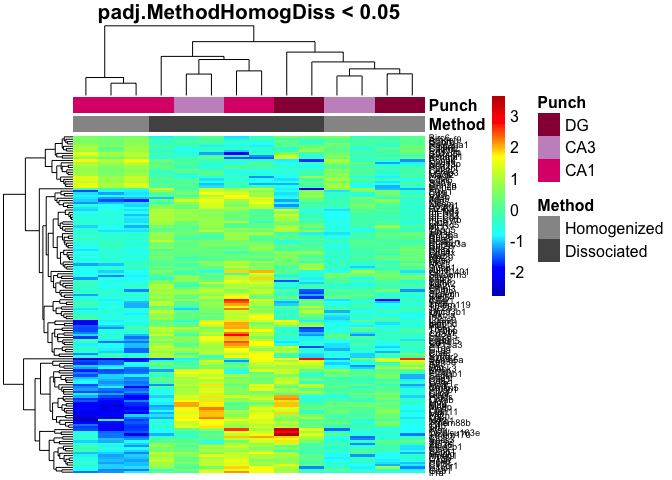
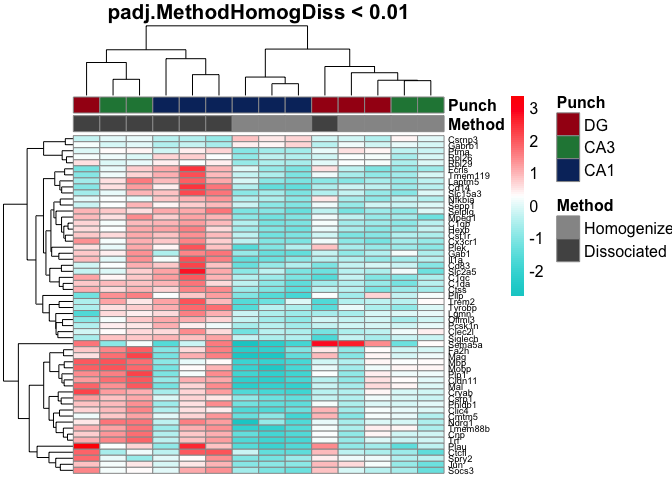
new figs

diff --git a/bin/DissociationTest.md b/bin/DissociationTest.md
@@ -5,11 +5,13 @@ Methods for Dorsal Hippocampal Gene Expression Profiling
 
 This PCA gives an overview of the variability between samples using the a large matrix of log transformed gene expression data. You can see that the bigges difference is between DG punches and the CA1 and CA3 punches. CA1 and CA3 samples have similar transcriptomes. The homogenized CA1 samples have the most similar transcriptonal profiles as evidenced by their tight clustering.
 
-![](../figures/allregions_onlyhomodiss/PCA-1.png)
+![](../figures/allregions_onlyhomodiss/PCA-1.png)![](../figures/allregions_onlyhomodiss/PCA-2.png)
 
 This Venn Diagram shows the number of differentially expressed by contrast described above each oval. The most number of genes are differntially expressed between DG and the CAs (nearly 1000) wheras only about 200 were differntailly regulated as a result of of technical maniplulation comparing homogenized and dissociated samples.
 
 ![](../figures/allregions_onlyhomodiss/VennDiagram.png)
+
+![](../figures/allregions_onlyhomodiss/VennDiagram-1.png)
 
 I'm not really happy with these two heat maps. Here's how I created them. Top heatmap: subset the data to give only the gene with an adjusted p value \< 0.05 for the homogenized vs dissociated comparisonany two-way comparsion. Bottom heatmap: subset the data to give only the gene with an adjusted p value \< 0.05 for two way brain region comparision (CA1 vs DG, CA3, vs DG, or CA1 vs DG)
 
